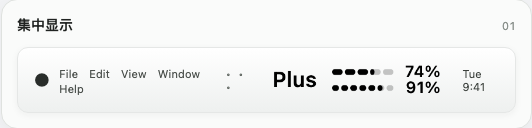
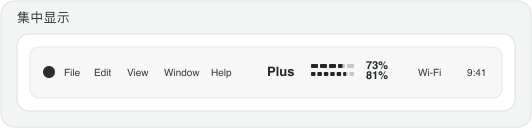
docs: redraw template previews consistently

diff --git a/README.md b/README.md
@@ -20,8 +20,8 @@ AI Usage 是一款轻量的 Tauri 桌面应用。它从本机已登录的 Codex 
 | 纯额度条 | <img src="docs/templates/quota-bars.png" alt="纯额度条模板预览" width="640" height="154"> |
 | 套餐名＋双行数值 | <img src="docs/templates/stacked-values.png" alt="套餐名加双行数值模板预览" width="640" height="154"> |
 | 周期标签＋分段条 | <img src="docs/templates/labeled-bars.png" alt="周期标签分段条模板预览" width="640" height="154"> |
-| 刻度电量尺 | <img src="docs/templates/meter.svg" alt="刻度电量尺模板预览" width="640" height="154"> |
-| 请求地点 | <img src="docs/request-location-template.svg" alt="请求地点模板预览" width="640" height="167"> |
+| 刻度电量尺 | <img src="docs/templates/meter.png" alt="刻度电量尺模板预览" width="640" height="154"> |
+| 请求地点 | <img src="docs/templates/location.png" alt="请求地点模板预览" width="640" height="154"> |
 
 *示例额度用于展示样式；为方便查看，状态栏区域按比例放大。*
 
